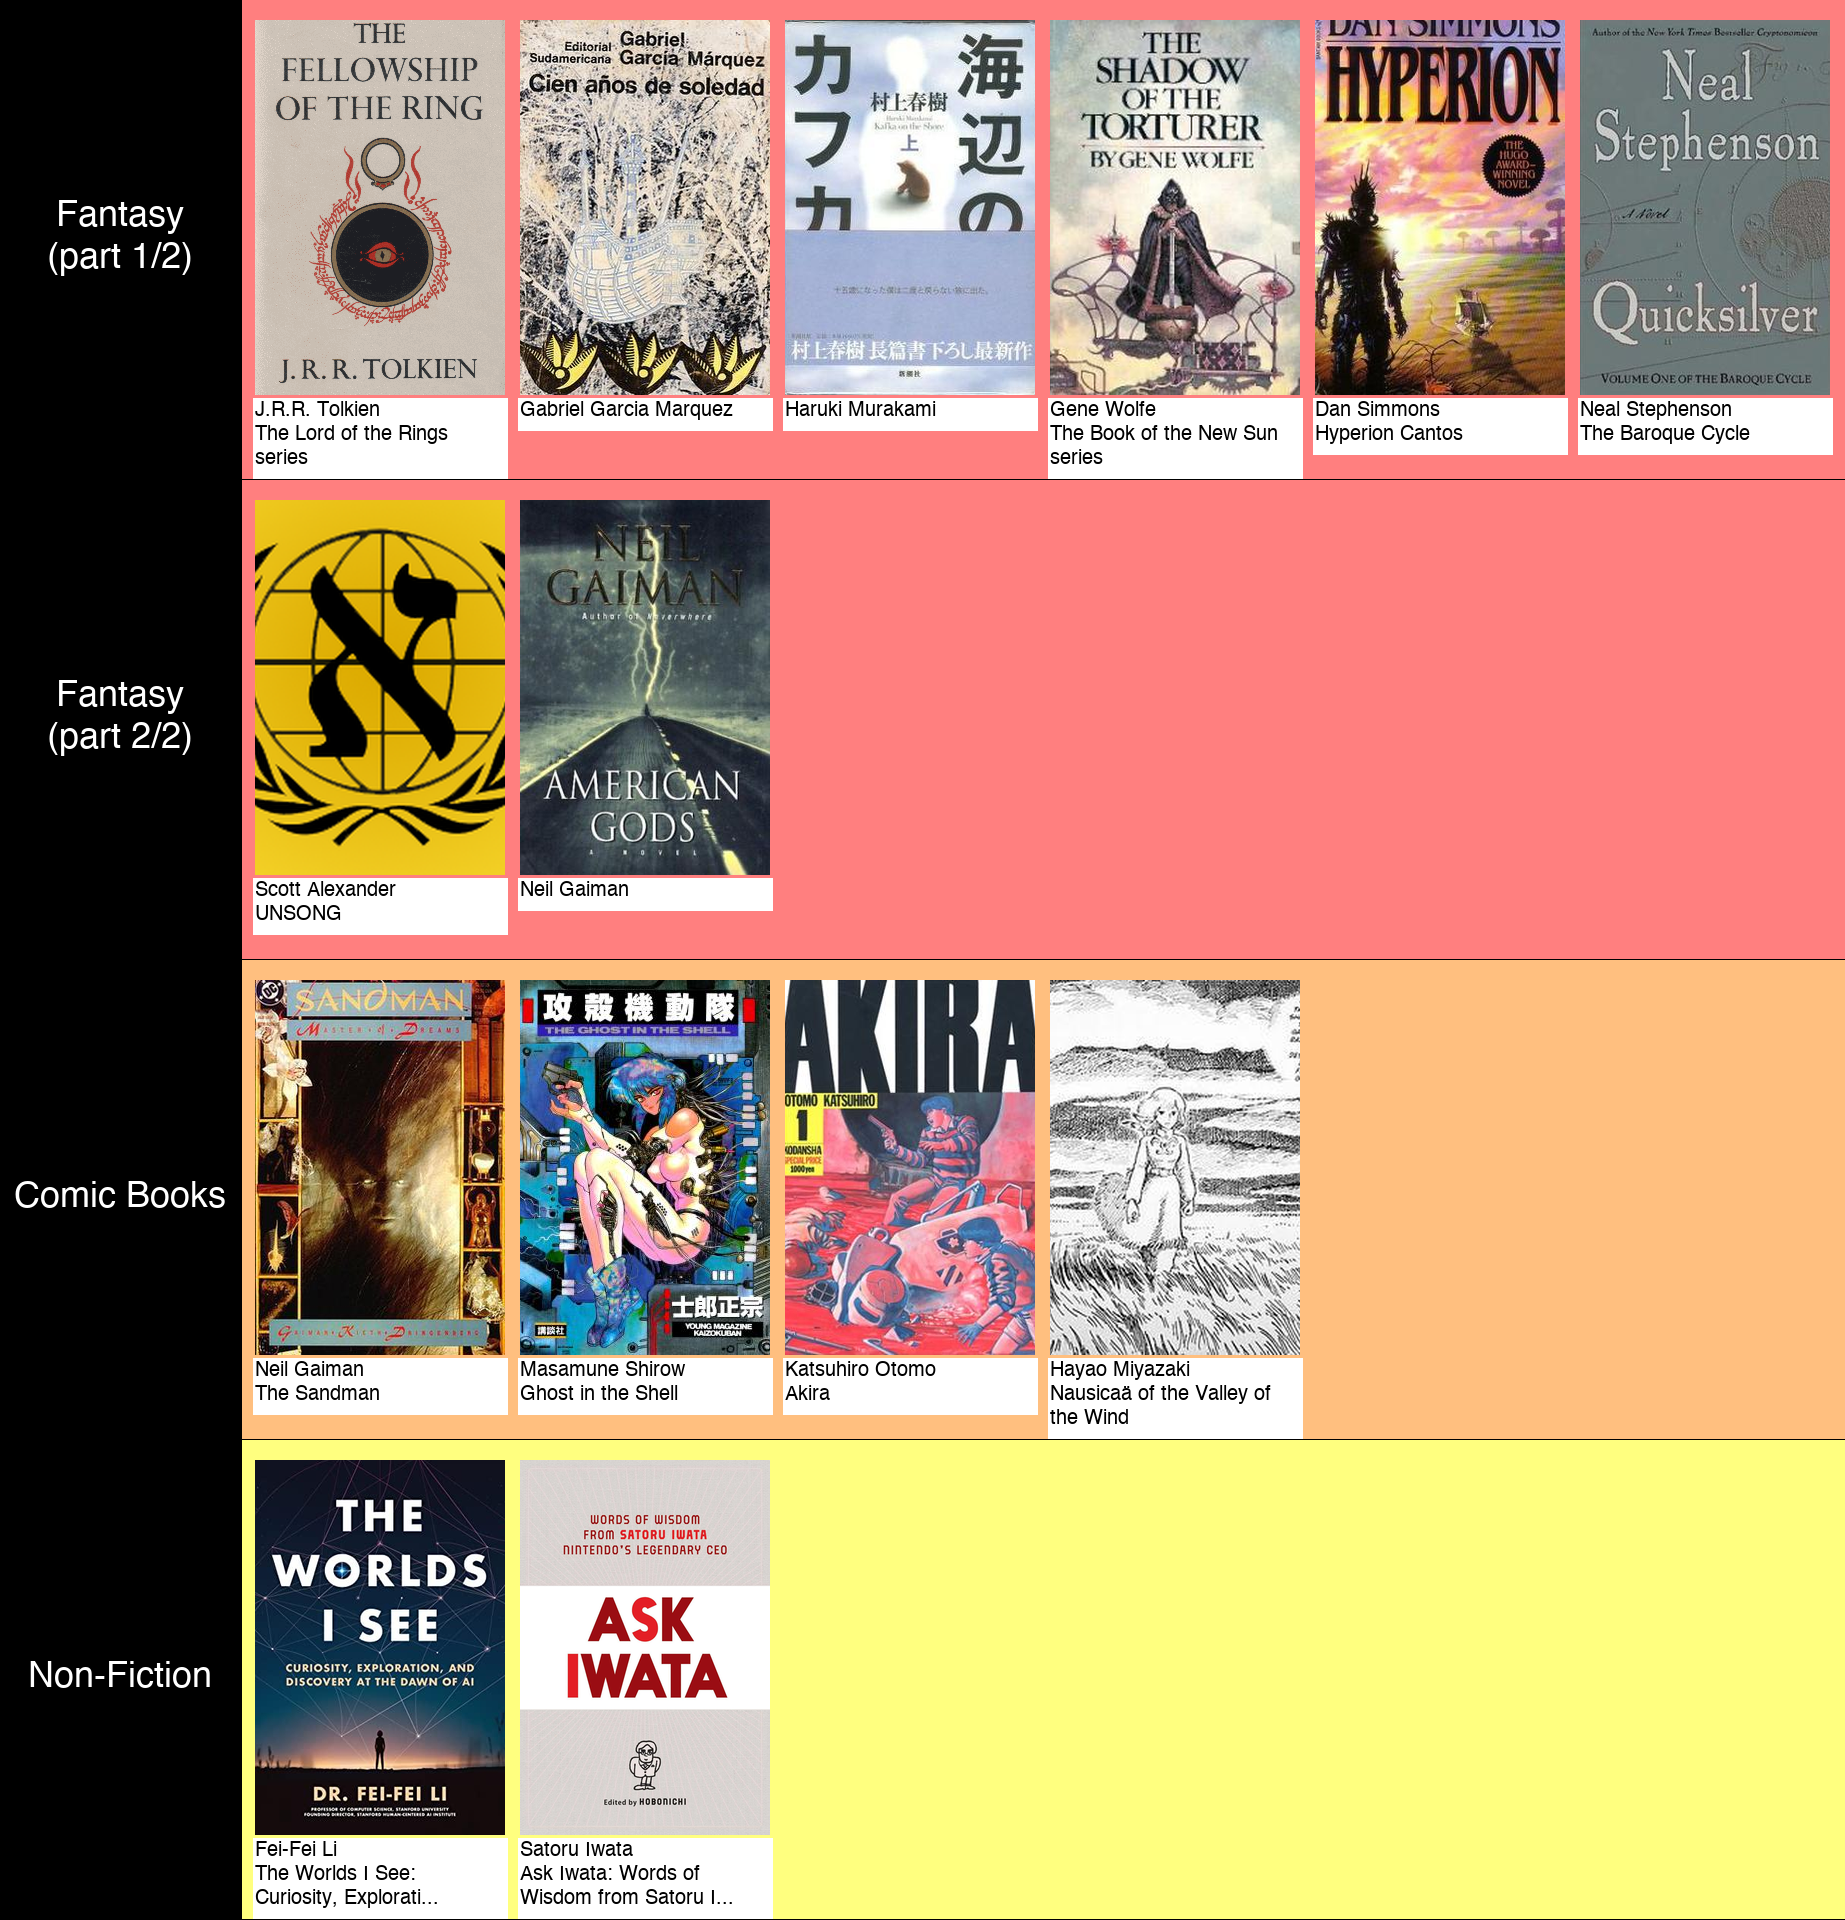
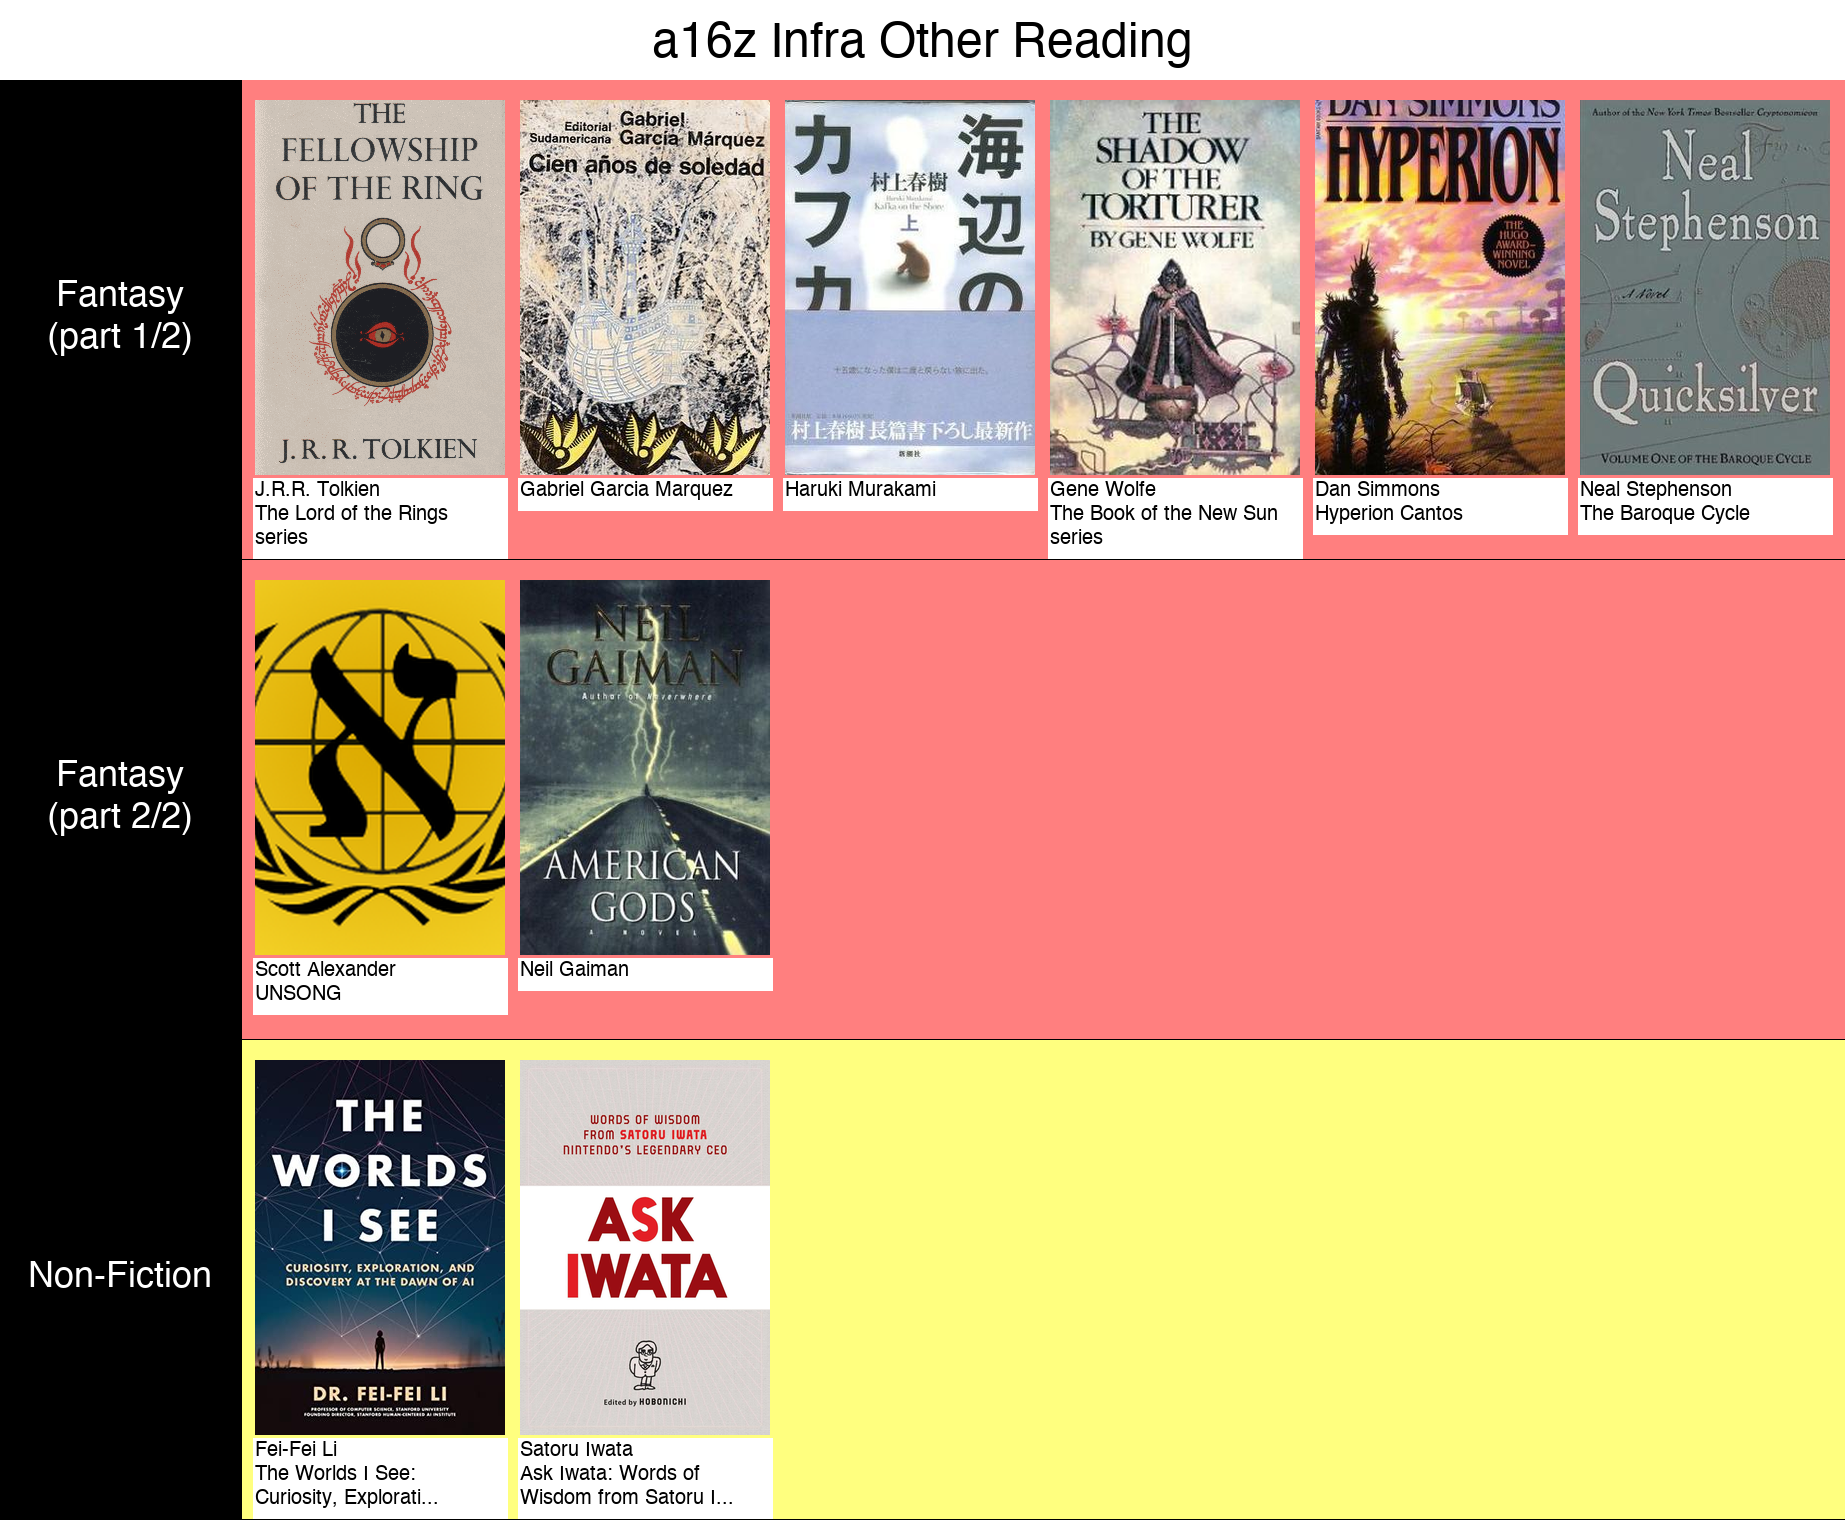
tweaks to graphics

diff --git a/tier_lists/generate_tier_list.py b/tier_lists/generate_tier_list.py
@@ -359,7 +359,7 @@ def create_text_tier_list(entries_by_tier, output_file='tier_list.txt'):
             f.write("\n")
 
 def create_other_tier_list(entries_by_tier, output_file='tier_list_other.png'):
-    """Create a tier list for other categories (fantasy, comics, non-fiction) with authors display"""
+    """Create a tier list for other categories (fantasy, non-fiction) with authors display"""
     # Configuration
     tier_height = 480
     tier_label_width = 240
@@ -371,20 +371,17 @@ def create_other_tier_list(entries_by_tier, output_file='tier_list_other.png'):
     # Category colors
     category_colors = {
         'fantasy': '#FF7F7F',     # Red
-        'comic': '#FFBF7F',       # Orange
         'non_fiction': '#FFFF7F'  # Yellow
     }
     
     category_names = {
         'fantasy': 'Fantasy',
-        'comic': 'Comic Books',
         'non_fiction': 'Non-Fiction'
     }
     
     # Organize entries by original category
     entries_by_category = {
         'fantasy': [],
-        'comic': [],
         'non_fiction': []
     }
     
@@ -395,7 +392,7 @@ def create_other_tier_list(entries_by_tier, output_file='tier_list_other.png'):
     
     # Calculate number of rows needed for each category
     rows_data = []
-    for category in ['fantasy', 'comic', 'non_fiction']:
+    for category in ['fantasy', 'non_fiction']:
         if not entries_by_category[category]:
             continue
         
@@ -417,7 +414,8 @@ def create_other_tier_list(entries_by_tier, output_file='tier_list_other.png'):
     
     # Calculate image dimensions
     num_rows = len(rows_data)
-    img_height = num_rows * tier_height
+    title_height = 80
+    img_height = title_height + num_rows * tier_height
     
     # Width based on max books per row
     img_width = tier_label_width + (max_books_per_row * (cover_width + padding)) + padding
@@ -428,16 +426,25 @@ def create_other_tier_list(entries_by_tier, output_file='tier_list_other.png'):
     
     # Load fonts
     try:
+        header_font = ImageFont.truetype("/System/Library/Fonts/Helvetica.ttc", 48)
         title_font = ImageFont.truetype("/System/Library/Fonts/Helvetica.ttc", 56)
         category_font = ImageFont.truetype("/System/Library/Fonts/Helvetica.ttc", 36)
         book_font = ImageFont.truetype("/System/Library/Fonts/Helvetica.ttc", 20)
     except:
+        header_font = ImageFont.load_default()
         title_font = ImageFont.load_default()
         category_font = ImageFont.load_default()
         book_font = ImageFont.load_default()
     
+    # Draw title
+    title_text = "a16z Infra Other Reading"
+    title_bbox = draw.textbbox((0, 0), title_text, font=header_font)
+    title_width = title_bbox[2] - title_bbox[0]
+    title_x = (img_width - title_width) // 2
+    draw.text((title_x, 20), title_text, fill='black', font=header_font)
+    
     # Draw rows
-    y_offset = 0
+    y_offset = title_height
     for row_data in rows_data:
         category = row_data['category']
         entries = row_data['entries']
@@ -591,9 +598,9 @@ def create_other_tier_list(entries_by_tier, output_file='tier_list_other.png'):
     md_file = output_file.replace('.png', '.md')
     with open(md_file, 'w') as f:
         f.write("# Other Reading List\n\n")
-        f.write("Fantasy, Comic Books, and Non-Fiction\n\n")
+        f.write("Fantasy and Non-Fiction\n\n")
         
-        for category in ['fantasy', 'comic', 'non_fiction']:
+        for category in ['fantasy', 'non_fiction']:
             if not entries_by_category[category]:
                 continue
             
@@ -632,7 +639,8 @@ def create_sci_fi_tier_list(entries_by_tier, output_file='tier_list_sci_fi.png')
     # Only include sci-fi tiers
     scifi_tiers = ['S', 'A_CLASSIC', 'A_VERY_GOOD', 'B']
     num_tiers = len([tier for tier in scifi_tiers if entries_by_tier[tier]])
-    img_height = num_tiers * tier_height
+    title_height = 80
+    img_height = title_height + num_tiers * tier_height
     
     # Calculate width based on the tier with the most books
     max_books_in_tier = max(len(entries_by_tier[tier]) for tier in scifi_tiers if entries_by_tier[tier])
@@ -644,24 +652,42 @@ def create_sci_fi_tier_list(entries_by_tier, output_file='tier_list_sci_fi.png')
     
     # Load fonts
     try:
+        header_font = ImageFont.truetype("/System/Library/Fonts/Helvetica.ttc", 48)
         title_font = ImageFont.truetype("/System/Library/Fonts/Helvetica.ttc", 56)
-        tier_font = ImageFont.truetype("/System/Library/Fonts/Helvetica.ttc", 36)
+        tier_letter_font = ImageFont.truetype("/System/Library/Fonts/Helvetica.ttc", 120)  # Very large font for tier letter
+        tier_text_font = ImageFont.truetype("/System/Library/Fonts/Helvetica.ttc", 36)  # Normal font for descriptive text
         book_font = ImageFont.truetype("/System/Library/Fonts/Helvetica.ttc", 20)
     except:
+        header_font = ImageFont.load_default()
         title_font = ImageFont.load_default()
-        tier_font = ImageFont.load_default()
+        tier_letter_font = ImageFont.load_default()
+        tier_text_font = ImageFont.load_default()
         book_font = ImageFont.load_default()
     
-    # Full tier names for sci-fi
-    tier_full_names = {
-        'S': 'Must Reads\n(S tier)',
-        'A_CLASSIC': 'Classics\n(A tier)',
-        'A_VERY_GOOD': 'Very Good\n(A tier)',
-        'B': 'Also Worth Reading\n(B tier)'
+    # Draw title
+    title_text = "a16z Infra Sci-fi Tier List"
+    title_bbox = draw.textbbox((0, 0), title_text, font=header_font)
+    title_width = title_bbox[2] - title_bbox[0]
+    title_x = (img_width - title_width) // 2
+    draw.text((title_x, 20), title_text, fill='black', font=header_font)
+    
+    # Tier letters and descriptive text for sci-fi
+    tier_letters = {
+        'S': 'S',
+        'A_CLASSIC': 'A',
+        'A_VERY_GOOD': 'A',
+        'B': 'B'
     }
     
-    # Draw tiers (start at top since we removed the title)
-    y_offset = 0
+    tier_descriptions = {
+        'S': 'Must Reads',
+        'A_CLASSIC': 'Classics',
+        'A_VERY_GOOD': 'Very Good/ Modern',
+        'B': 'Also Worth Reading'
+    }
+    
+    # Draw tiers (start after title)
+    y_offset = title_height
     for tier in scifi_tiers:
         if not entries_by_tier[tier]:
             continue
@@ -678,27 +704,53 @@ def create_sci_fi_tier_list(entries_by_tier, output_file='tier_list_sci_fi.png')
             fill='black'
         )
         
-        # Draw tier full name with word wrapping (centered vertically)
-        tier_name = tier_full_names[tier]
-        wrapped_tier_lines = wrap_text(tier_name, tier_font, tier_label_width - 20)
+        # Get tier letter and description
+        tier_letter = tier_letters[tier]
+        tier_description = tier_descriptions[tier]
         
-        # Calculate total height of wrapped text
-        line_height = 42
-        total_text_height = len(wrapped_tier_lines) * line_height
-        start_y = y_offset + (tier_height - total_text_height) // 2
+        # Calculate positions for letter and text
+        # Draw the large letter first
+        letter_bbox = draw.textbbox((0, 0), tier_letter, font=tier_letter_font)
+        letter_width = letter_bbox[2] - letter_bbox[0]
+        letter_height = letter_bbox[3] - letter_bbox[1]
         
-        # Draw each line centered horizontally
-        current_y = start_y
-        for line in wrapped_tier_lines:
-            line_bbox = draw.textbbox((0, 0), line, font=tier_font)
+        # Wrap the description text
+        wrapped_desc_lines = wrap_text(tier_description, tier_text_font, tier_label_width - 20)
+        desc_line_height = 42
+        total_desc_height = len(wrapped_desc_lines) * desc_line_height
+        
+        # Calculate spacing: letter at top, then gap, then description text
+        letter_y = y_offset + 60  # Start letter a bit from top
+        gap = 35  # Gap between letter and text
+        desc_start_y = letter_y + letter_height + gap
+        
+        # Center everything vertically if needed
+        total_content_height = letter_height + gap + total_desc_height
+        if total_content_height < tier_height - 120:  # If content is smaller than available space
+            extra_space = tier_height - total_content_height - 120
+            letter_y += extra_space // 2
+            desc_start_y = letter_y + letter_height + gap
+        
+        # Draw the large tier letter (centered horizontally)
+        draw.text(
+            ((tier_label_width - letter_width) // 2, letter_y),
+            tier_letter,
+            fill='white',
+            font=tier_letter_font
+        )
+        
+        # Draw the description text below the letter (centered horizontally)
+        current_y = desc_start_y
+        for line in wrapped_desc_lines:
+            line_bbox = draw.textbbox((0, 0), line, font=tier_text_font)
             line_width = line_bbox[2] - line_bbox[0]
             draw.text(
                 ((tier_label_width - line_width) // 2, current_y),
                 line,
                 fill='white',
-                font=tier_font
+                font=tier_text_font
             )
-            current_y += line_height
+            current_y += desc_line_height
         
         # Draw vertical line after tier label
         draw.line(

diff --git a/tier_lists/tier_list_other.md b/tier_lists/tier_list_other.md
@@ -1,6 +1,6 @@
 # Other Reading List
 
-Fantasy, Comic Books, and Non-Fiction
+Fantasy and Non-Fiction
 
 ## Fantasy
 
@@ -12,13 +12,6 @@ Fantasy, Comic Books, and Non-Fiction
 - **Neal Stephenson** - The Baroque Cycle
 - **Scott Alexander** - UNSONG
 - **Neil Gaiman**
-
-## Comic Books
-
-- **Neil Gaiman** - The Sandman
-- **Masamune Shirow** - Ghost in the Shell
-- **Katsuhiro Otomo** - Akira
-- **Hayao Miyazaki** - Nausicaä of the Valley of the Wind
 
 ## Non-Fiction
 
